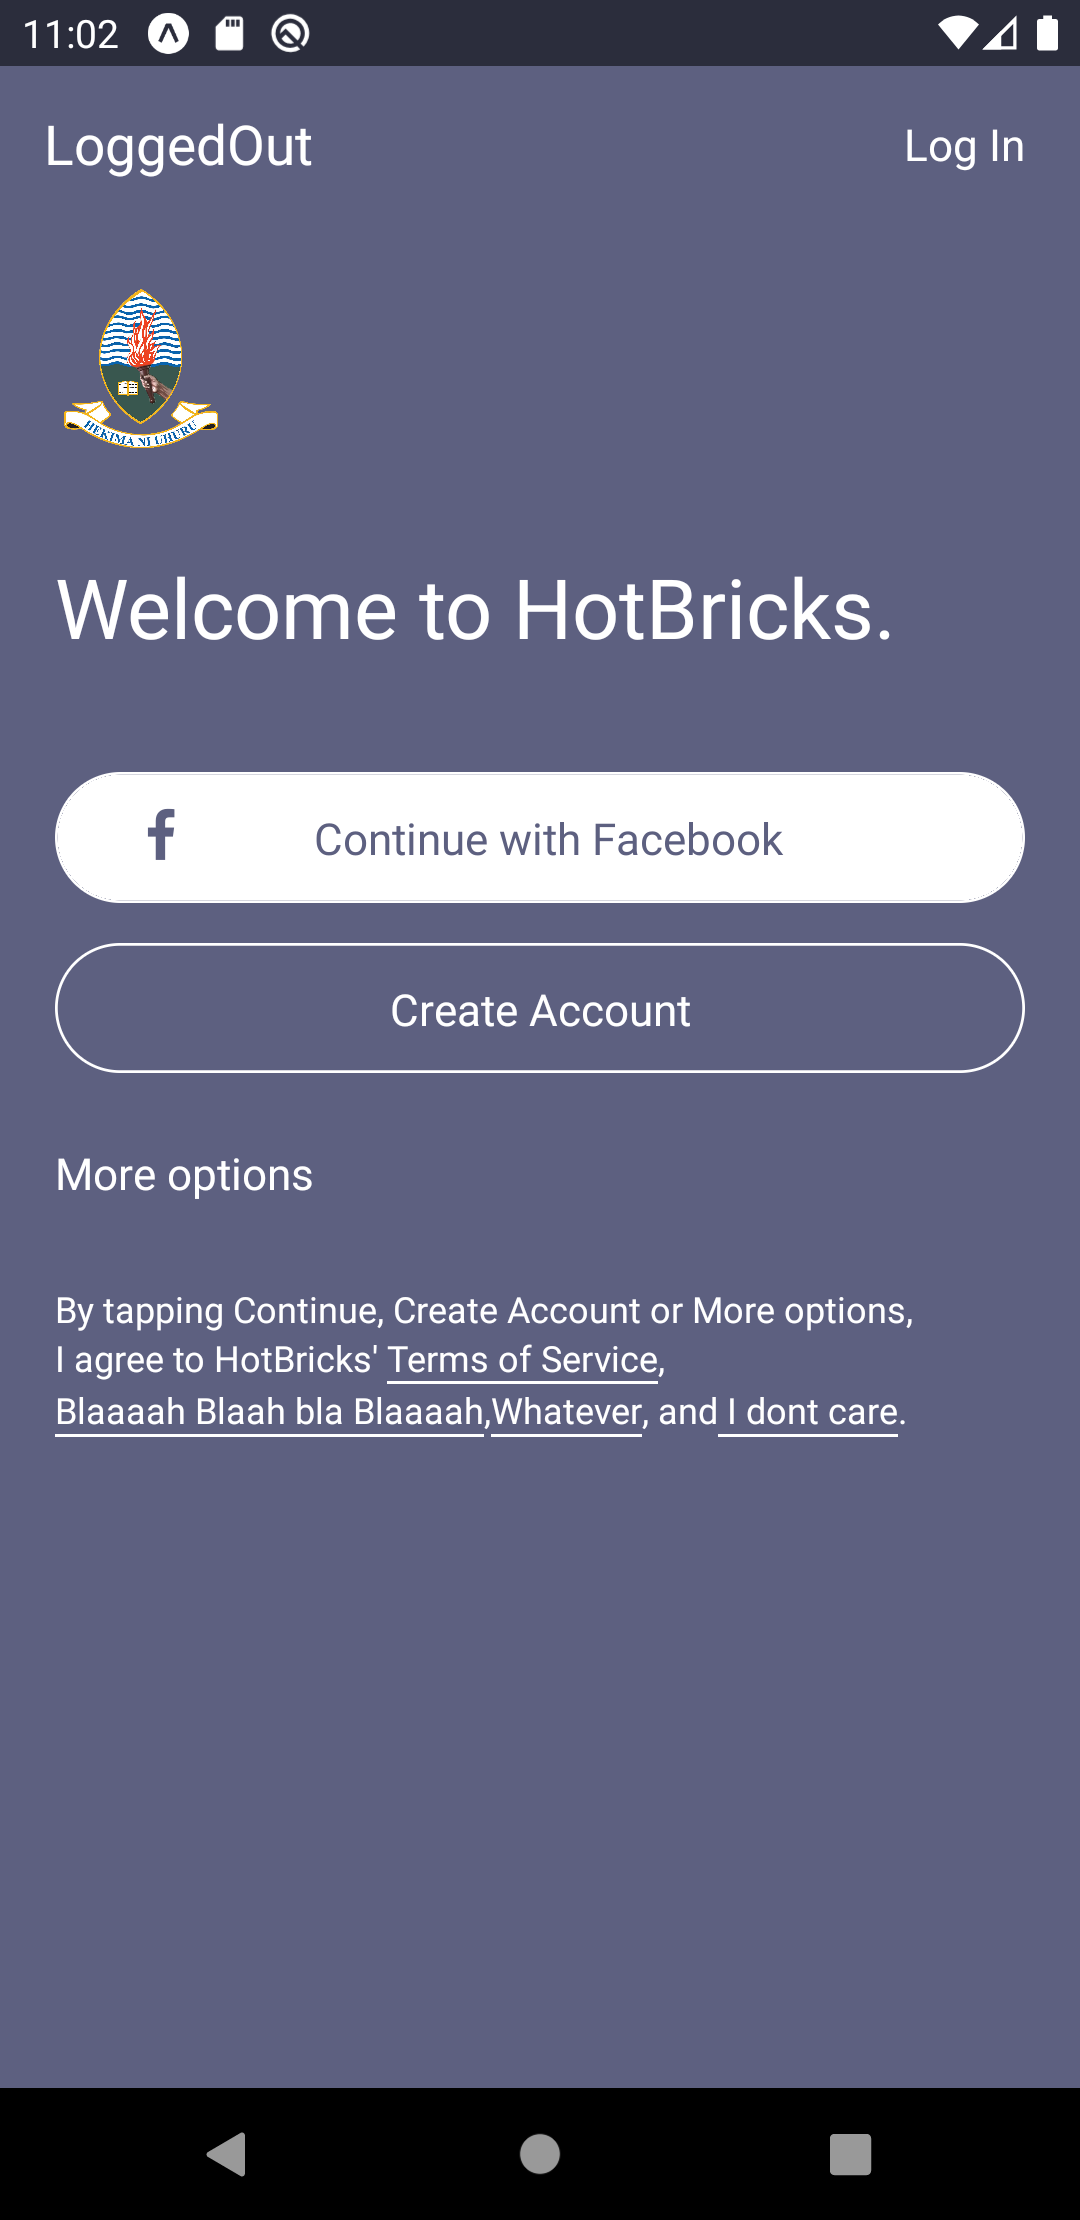
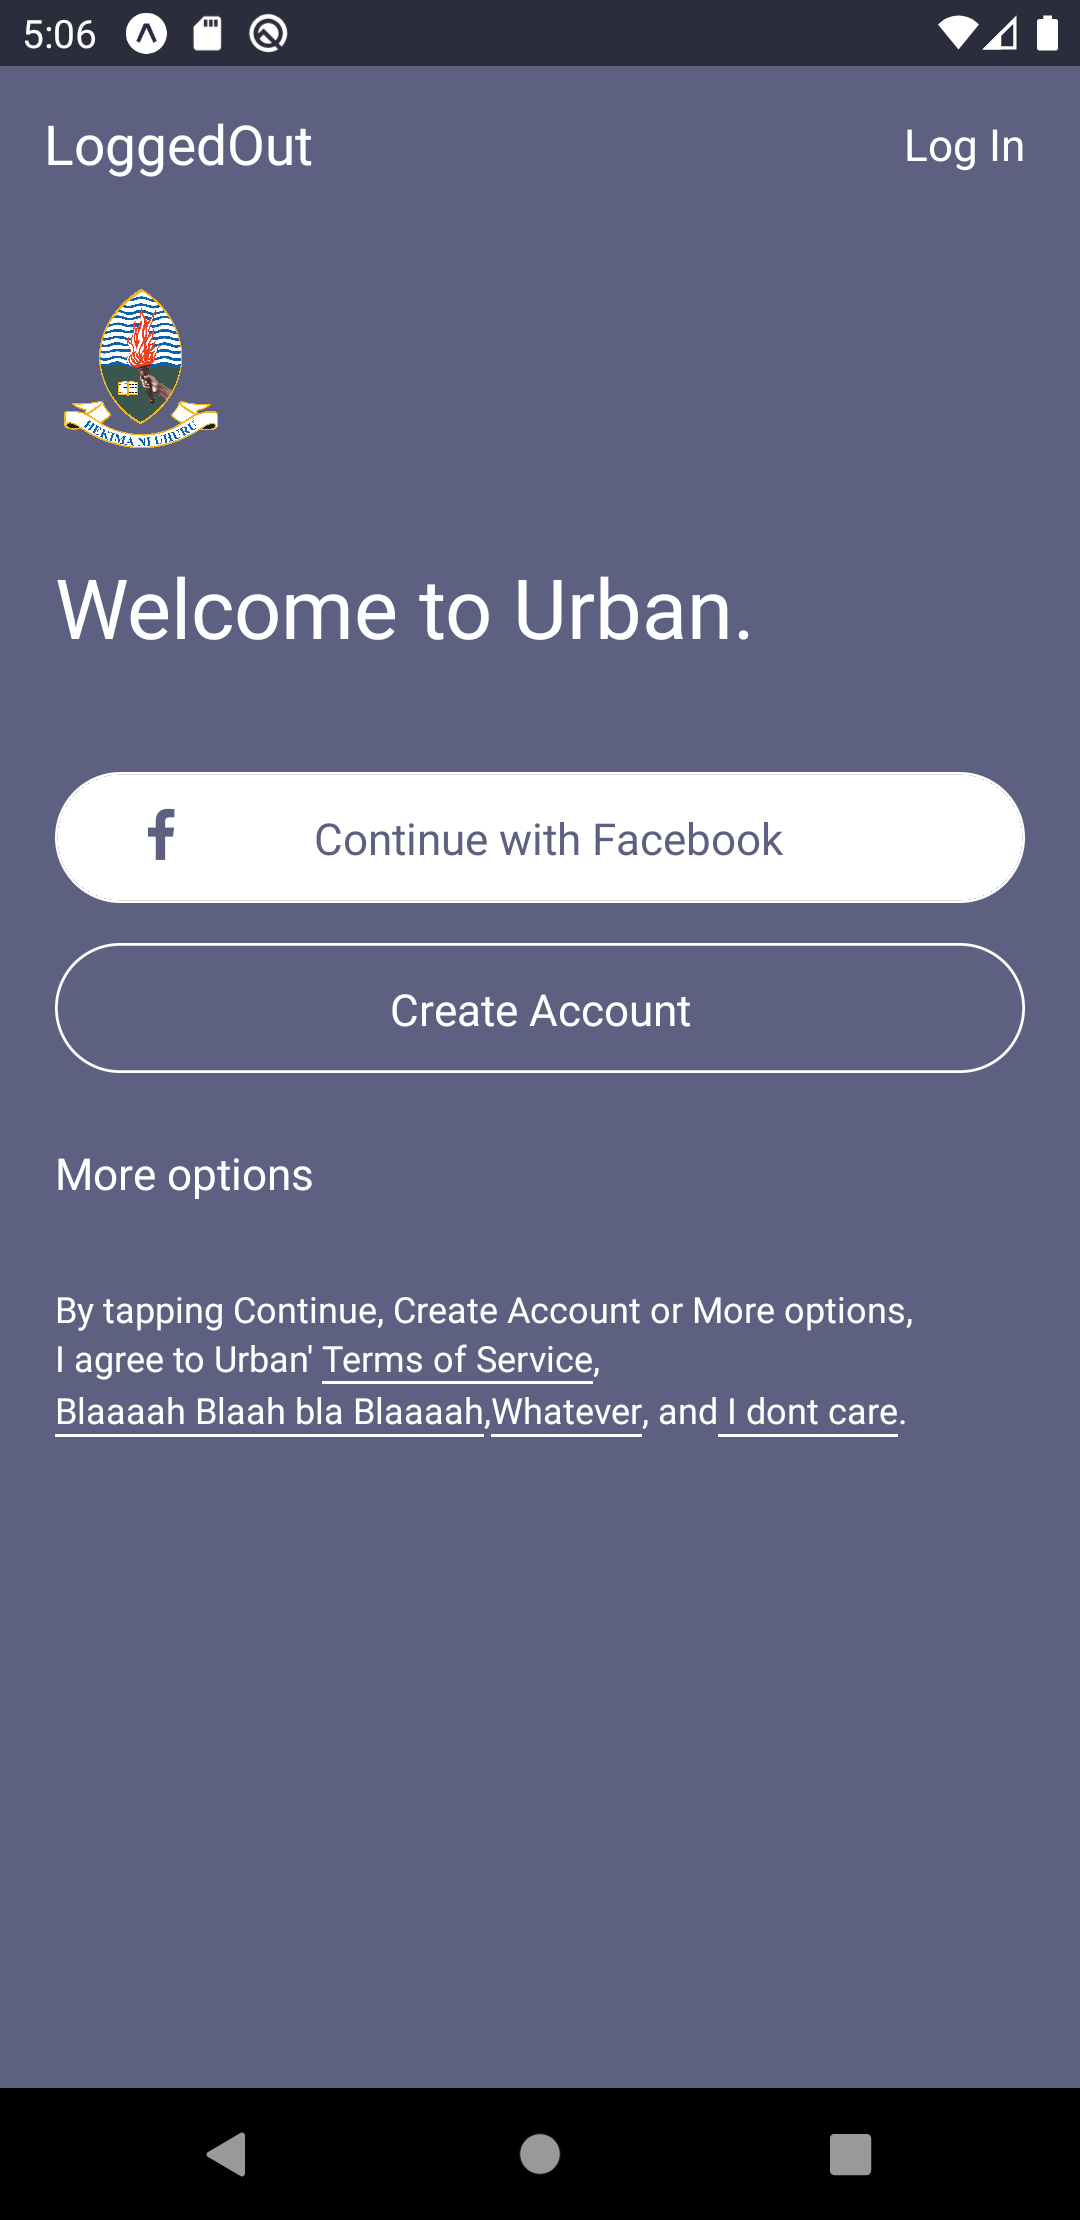
made few changes

diff --git a/src/screens/LoggedOut.js b/src/screens/LoggedOut.js
@@ -47,7 +47,7 @@ export default class LoggedOut extends Component {
       <ScrollView style={styles.wrapper}>
         <View style={styles.welcomeWrapper}>
           <Image source={udsmLogo} style={styles.logo} />
-          <Text style={styles.welcomeText}>Welcome to HotBricks.</Text>
+          <Text style={styles.welcomeText}>Welcome to Urban.</Text>
           <RoundedButton
             text="Continue with Facebook"
             textColor={colors.green01}
@@ -78,7 +78,7 @@ export default class LoggedOut extends Component {
               By tapping Continue, Create Account or More
             </Text>
             <Text style={styles.termsText}>{" options,"}</Text>
-            <Text style={styles.termsText}>{"I agree to HotBricks' "}</Text>
+            <Text style={styles.termsText}>{"I agree to Urban' "}</Text>
             <TouchableHighlight style={styles.linkButton}>
               <Text style={styles.termsText}>Terms of Service</Text>
             </TouchableHighlight>

diff --git a/src/screens/CreateList.js b/src/screens/CreateList.js
@@ -114,7 +114,7 @@ class CreateList extends Component {
                 <View>
                   <Text style={styles.privacyOptionTitle}>Public</Text>
                   <Text style={styles.privacyOptionDescription}>
-                    Visible to everyone and included on your public HotBricks
+                    Visible to everyone and included on your public Urban
                     profile.
                   </Text>
                   <View style={styles.privacyRadioInput}>
